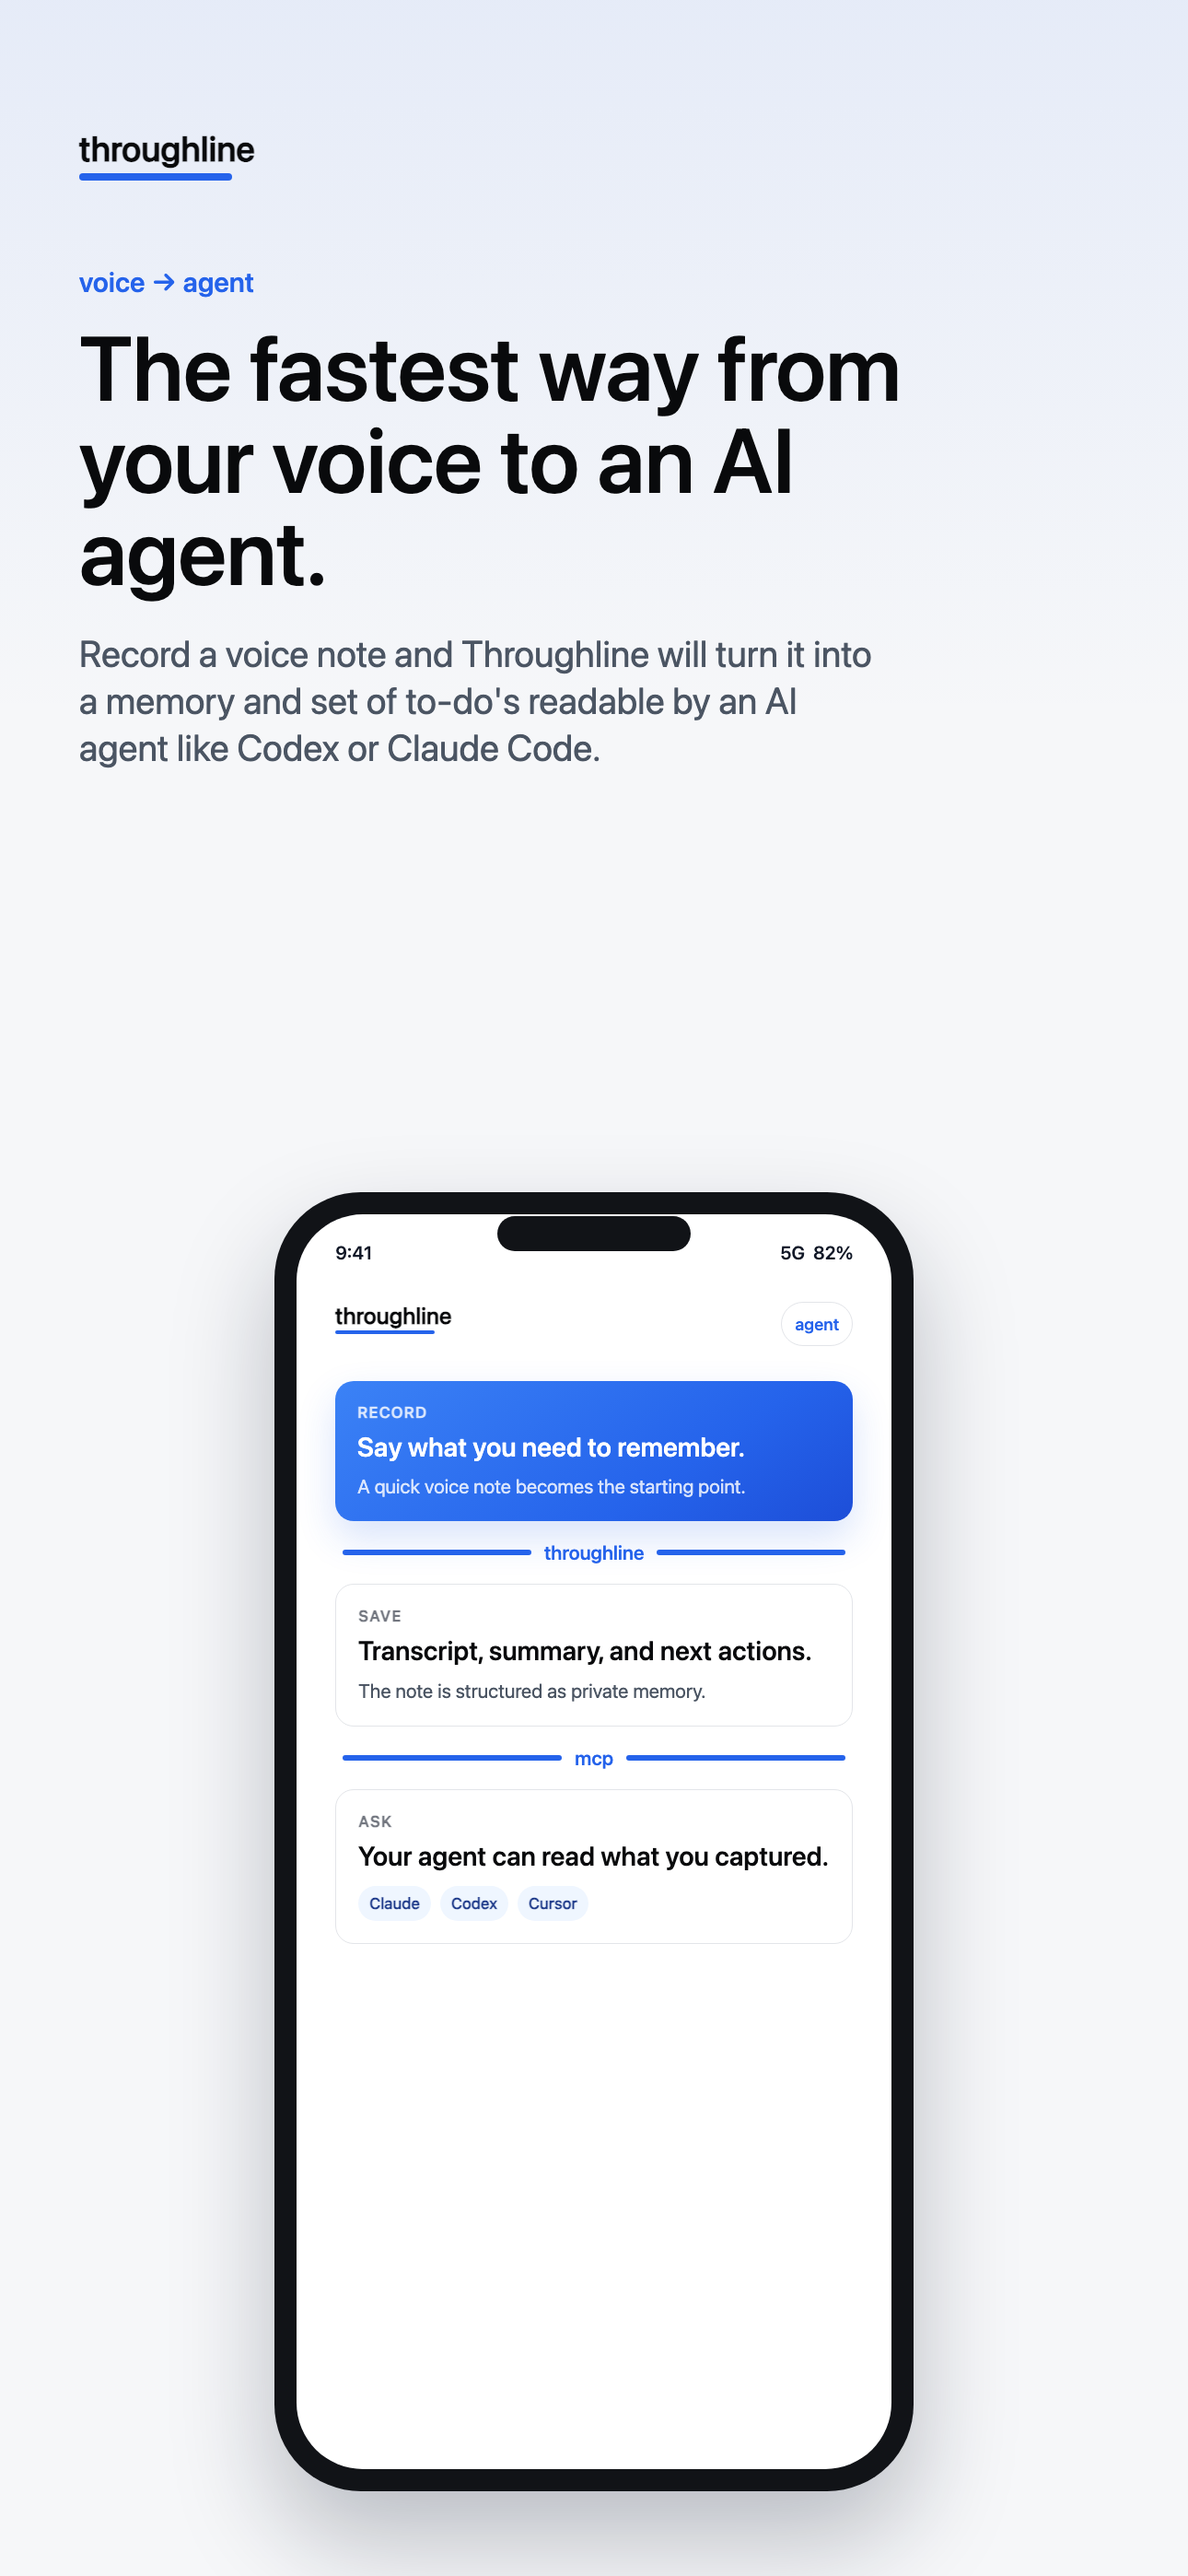
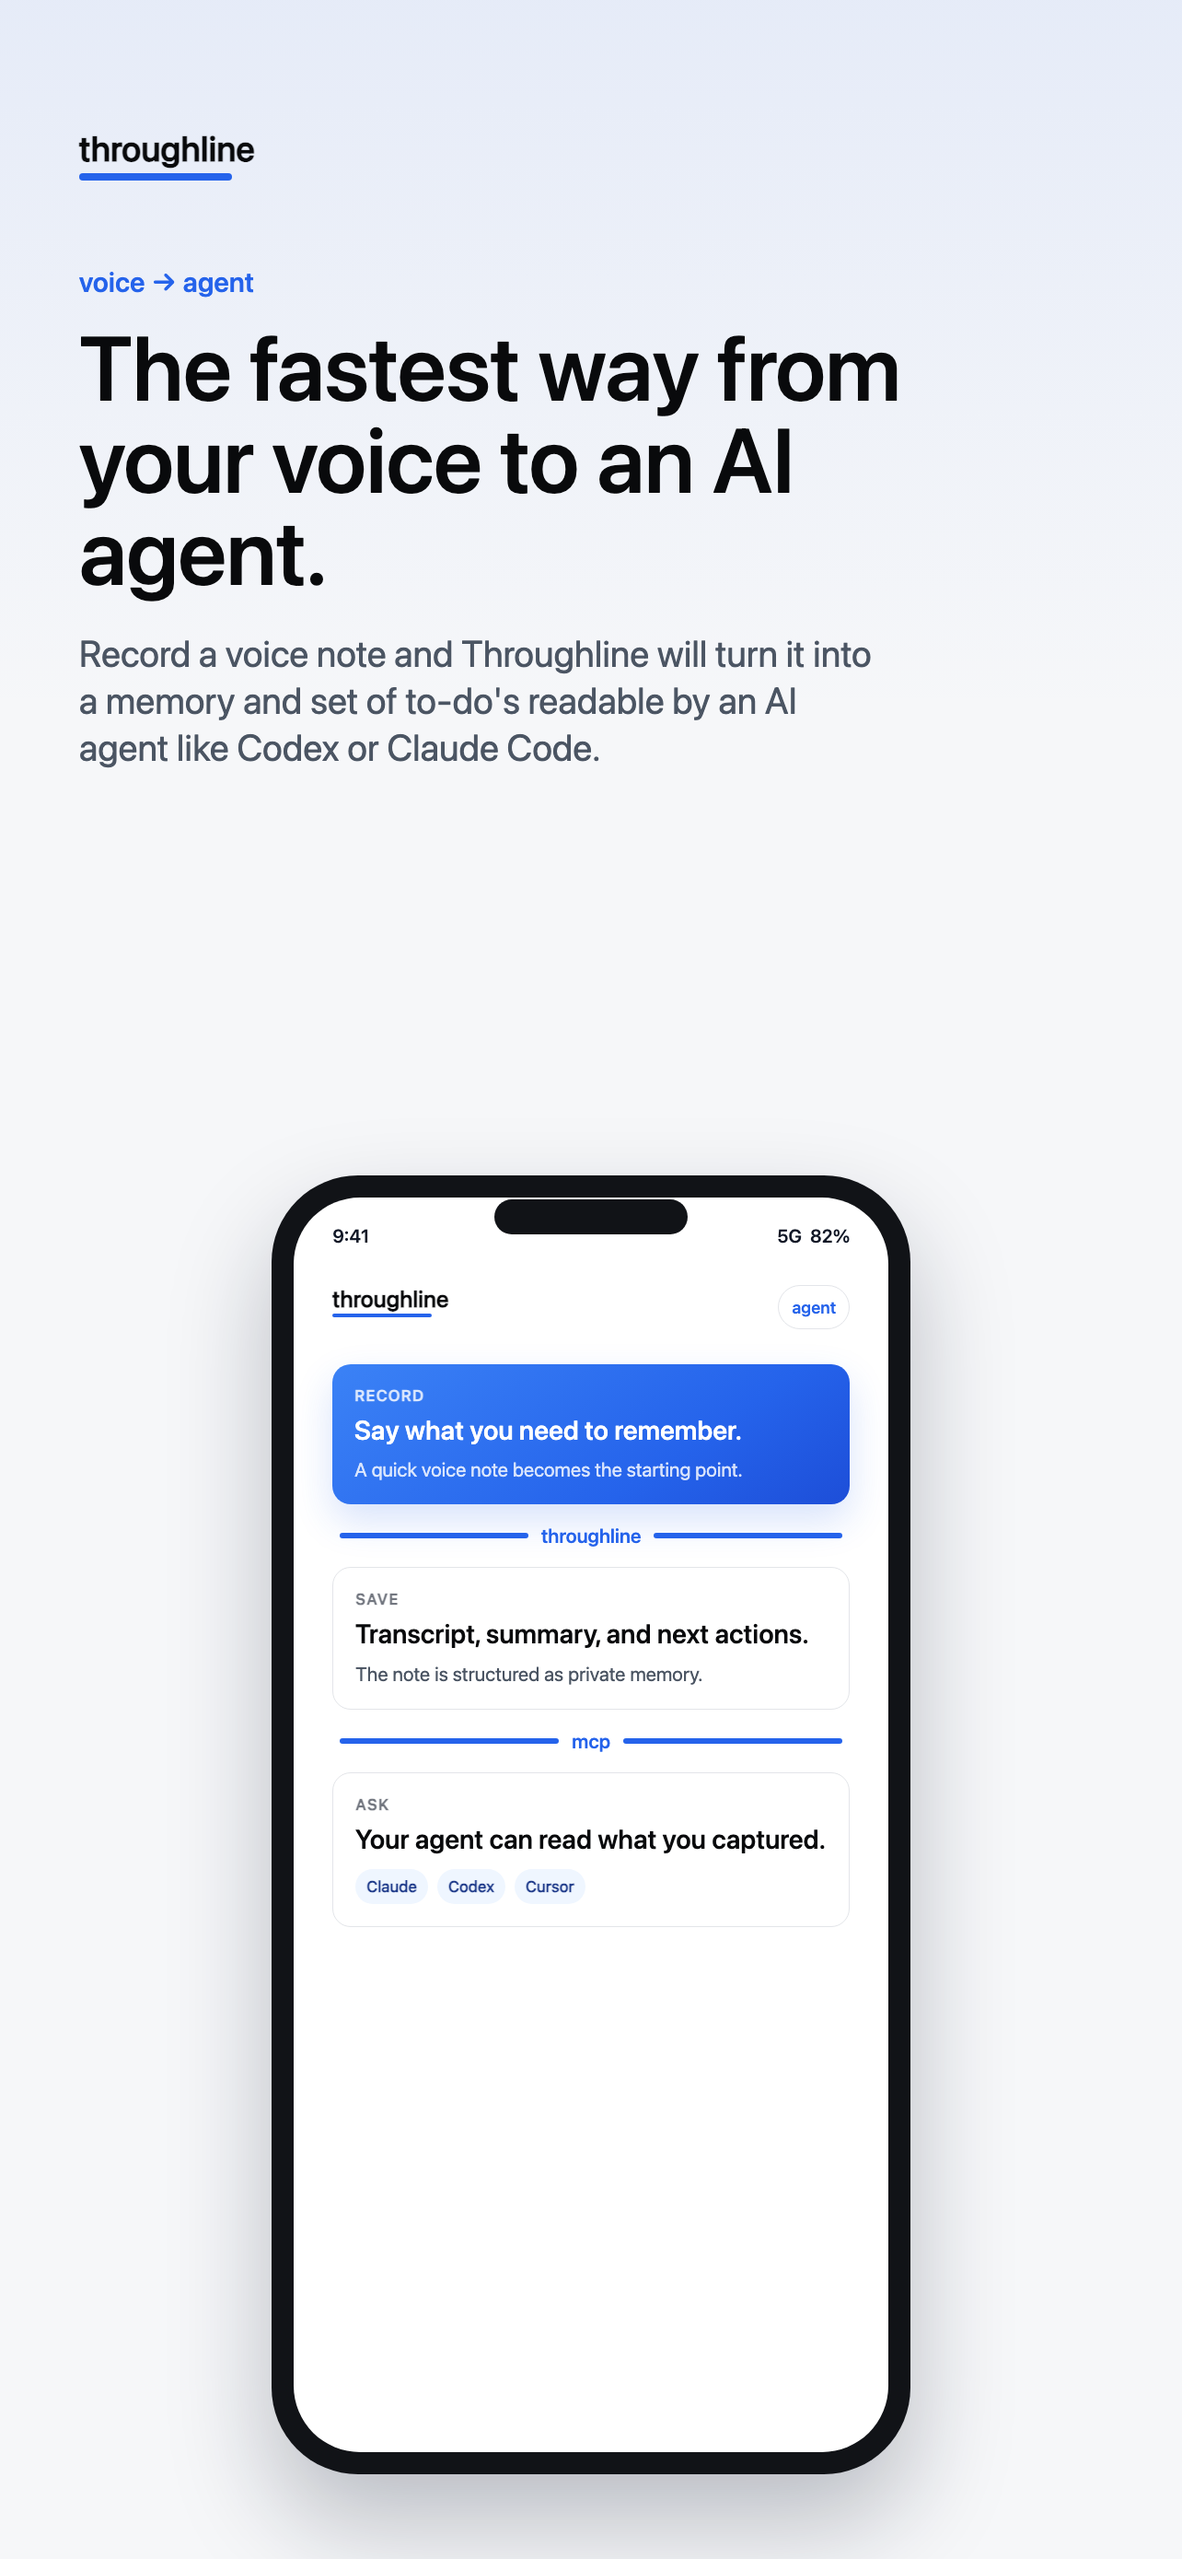
Fix App Store screenshot dimensions

diff --git a/app-store/screenshots/iphone-6.9/source.html b/app-store/screenshots/iphone-6.9/source.html
@@ -2,7 +2,7 @@
 <html lang="en">
   <head>
     <meta charset="utf-8">
-    <meta name="viewport" content="width=1290, initial-scale=1">
+    <meta name="viewport" content="width=1284, initial-scale=1">
     <title>Throughline App Store Screenshots</title>
     <style>
       :root {
@@ -24,8 +24,8 @@
       html,
       body,
       #app {
-        width: 1290px;
-        height: 2796px;
+        width: 1284px;
+        height: 2778px;
         margin: 0;
         overflow: hidden;
       }
@@ -40,8 +40,8 @@
         position: relative;
         display: grid;
         grid-template-rows: auto 1fr;
-        width: 1290px;
-        height: 2796px;
+        width: 1284px;
+        height: 2778px;
         padding: 138px 86px 92px;
         background:
           linear-gradient(180deg, rgba(37, 99, 235, 0.08), rgba(37, 99, 235, 0) 28%),

diff --git a/docs/app-store-readiness.md b/docs/app-store-readiness.md
@@ -18,7 +18,7 @@ Last updated: May 24, 2026
 - Privacy manifest: `ios/Throughline/PrivacyInfo.xcprivacy`
 - Public privacy URL: `https://mpolner88.github.io/throughline/privacy/`
 - Public support URL: `https://mpolner88.github.io/throughline/support/`
-- App Store screenshot set: `app-store/screenshots/iphone-6.9/`; generated with `npm run appstore:screenshots`
+- App Store screenshot set: `app-store/screenshots/iphone-6.9/`; generated with `npm run appstore:screenshots` at `1284 x 2778`
 - Release config keeps `THROUGHLINE_API_TOKEN` empty and uses Supabase Auth for users.
 - In-app account deletion exists in settings.
 - Protected backend maintenance route exists for audio retention: `POST /maintenance/audio-retention`
@@ -69,7 +69,7 @@ Suggested review path:
 
 ## Screenshot Upload Order
 
-Upload the generated 6.9" iPhone screenshots in this order:
+Upload the generated iPhone screenshots in this order:
 
 1. `app-store/screenshots/iphone-6.9/01-voice-to-agent.png`
 2. `app-store/screenshots/iphone-6.9/02-capture-voice.png`

diff --git a/app-store/screenshots/iphone-6.9/README.md b/app-store/screenshots/iphone-6.9/README.md
@@ -2,9 +2,9 @@
 
 Generated by `npm run appstore:screenshots`.
 
-## iPhone 6.9"
+## iPhone
 
-Apple accepts 6.9" portrait screenshots at `1290 x 2796`. Upload these in order:
+Generated at `1284 x 2778`, which App Store Connect accepts for the current iPhone screenshot upload slot. Upload these in order:
 
 1. `01-voice-to-agent.png`
 2. `02-capture-voice.png`
